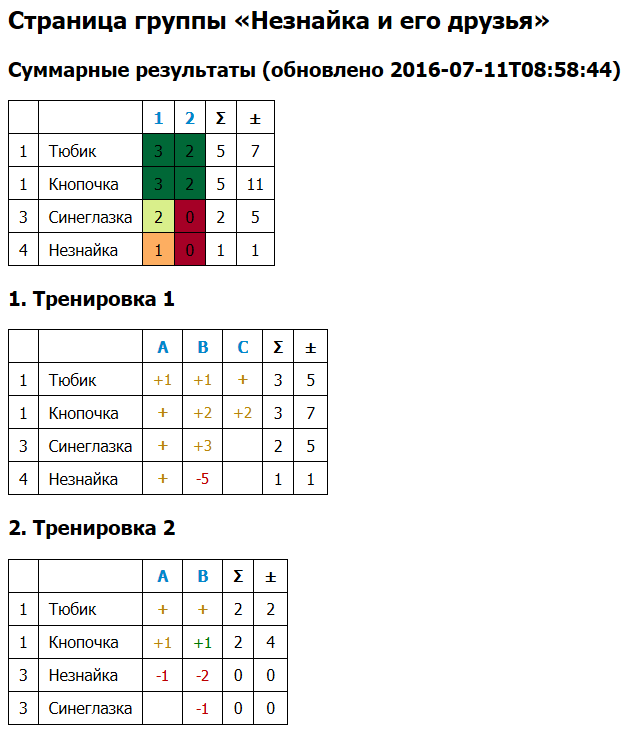
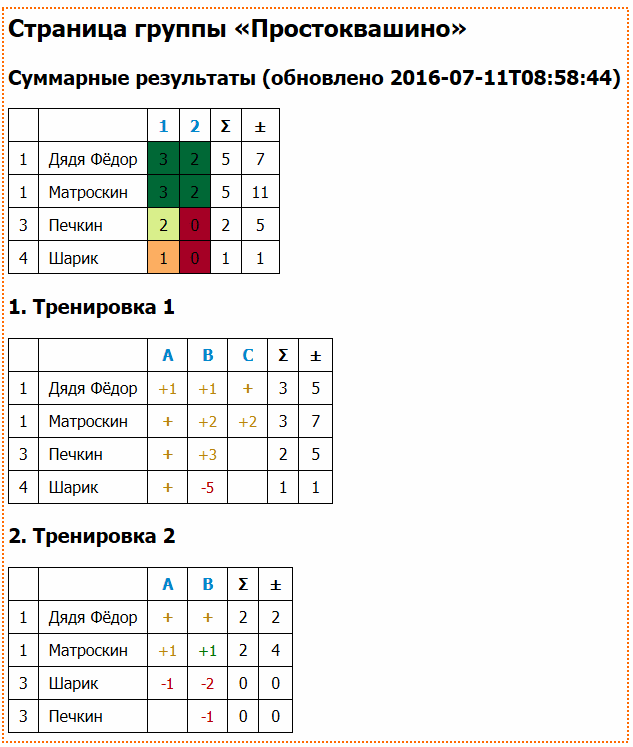
Change example

diff --git a/example/progress.html b/example/progress.html
@@ -1,1 +1,1 @@
-<!doctype html><html lang="ru"><head><meta charset="utf-8"><style>html{font-size:62.5%}body{font:400 1.6rem/1.5 Tahoma,serif}h1{font-size:2.4rem}h2{font-size:2rem}.ac,.ok,.rj{font-size:1.5rem}table{border-collapse:collapse}td,th{padding:4px 10px;border:1px solid #000;text-align:center}a{text-decoration:none;color:#08c}.left{text-align:left}.ac{color:#070}.ok{color:#b8860b}.rj{color:#b00}.ok0{font-weight:900}.c0{background-color:#a50026}.c1{background-color:#d73027}.c2{background-color:#f46d43}.c3{background-color:#fdae61}.c4{background-color:#fee08b}.c5{background-color:#ffffbf}.c6{background-color:#d9ef8b}.c7{background-color:#a6d96a}.c8{background-color:#66bd63}.c9{background-color:#1a9850}.c10{background-color:#006837}</style><title>Незнайка и его друзья</title></head><body><h1>Страница группы  «Незнайка и его друзья»</h1><h2>Суммарные результаты (обновлено 2016-07-11T08:58:44)</h2><table><tr><th><th><th><a href="#1">1</a><th><a href="#2">2</a><th title="Задачи">Σ<th title="Попытки по решенным задачам">±<tr><td>1<td class="left">Тюбик<td class="c10">3<td class="c10">2<td>5<td>7<tr><td>1<td class="left">Кнопочка<td class="c10">3<td class="c10">2<td>5<td>11<tr><td>3<td class="left">Синеглазка<td class="c6">2<td class="c0">0<td>2<td>5<tr><td>4<td class="left">Незнайка<td class="c3">1<td class="c0">0<td>1<td>1</table><h2 id="1">1. Тренировка 1</h2><table><tr><th><th><th><a title="Простые числа" href="http://informatics.mccme.ru/mod/statements/view3.php?chapterid=611">A</a><th><a title="Выражение" href="http://informatics.mccme.ru/mod/statements/view3.php?chapterid=612">B</a><th><a title="Возрастающая подпоследовательность" href="http://informatics.mccme.ru/mod/statements/view3.php?chapterid=613">C</a><th title="Задачи">Σ<th title="Попытки по решенным задачам">±<tr><td>1<td class="left">Тюбик<td class="ok">+1<td class="ok">+1<td class="ok ok0">+<td>3<td>5<tr><td>1<td class="left">Кнопочка<td class="ok ok0">+<td class="ok">+2<td class="ok">+2<td>3<td>7<tr><td>3<td class="left">Синеглазка<td class="ok ok0">+<td class="ok">+3<td><td>2<td>5<tr><td>4<td class="left">Незнайка<td class="ok ok0">+<td class="rj">-5<td><td>1<td>1</table><h2 id="2">2. Тренировка 2</h2><table><tr><th><th><th><a title="Простые числа(2)" href="http://informatics.mccme.ru/mod/statements/view3.php?chapterid=617">A</a><th><a title="Перестановки" href="http://informatics.mccme.ru/mod/statements/view3.php?chapterid=618">B</a><th title="Задачи">Σ<th title="Попытки по решенным задачам">±<tr><td>1<td class="left">Тюбик<td class="ok ok0">+<td class="ok ok0">+<td>2<td>2<tr><td>1<td class="left">Кнопочка<td class="ok">+1<td class="ac">+1<td>2<td>4<tr><td>3<td class="left">Незнайка<td class="rj">-1<td class="rj">-2<td>0<td>0<tr><td>3<td class="left">Синеглазка<td><td class="rj">-1<td>0<td>0</table></body></html>
+<!doctype html><html lang="ru"><head><meta charset="utf-8"><style>html{font-size:62.5%}body{font:400 1.6rem/1.5 Tahoma,serif}h1{font-size:2.4rem}h2{font-size:2rem}.ac,.ok,.rj{font-size:1.5rem}table{border-collapse:collapse}td,th{padding:4px 10px;border:1px solid #000;text-align:center}a{text-decoration:none;color:#08c}.left{text-align:left}.ac{color:#070}.ok{color:#b8860b}.rj{color:#b00}.ok0{font-weight:900}.c0{background-color:#a50026}.c1{background-color:#d73027}.c2{background-color:#f46d43}.c3{background-color:#fdae61}.c4{background-color:#fee08b}.c5{background-color:#ffffbf}.c6{background-color:#d9ef8b}.c7{background-color:#a6d96a}.c8{background-color:#66bd63}.c9{background-color:#1a9850}.c10{background-color:#006837}</style><title>Простоквашино</title></head><body><h1>Страница группы  «Простоквашино»</h1><h2>Суммарные результаты (обновлено 2016-07-11T08:58:44)</h2><table><tr><th><th><th><a href="#1">1</a><th><a href="#2">2</a><th title="Задачи">Σ<th title="Попытки по решенным задачам">±<tr><td>1<td class="left">Дядя Фёдор<td class="c10">3<td class="c10">2<td>5<td>7<tr><td>1<td class="left">Матроскин<td class="c10">3<td class="c10">2<td>5<td>11<tr><td>3<td class="left">Печкин<td class="c6">2<td class="c0">0<td>2<td>5<tr><td>4<td class="left">Шарик<td class="c3">1<td class="c0">0<td>1<td>1</table><h2 id="1">1. Тренировка 1</h2><table><tr><th><th><th><a title="Простые числа" href="http://informatics.mccme.ru/mod/statements/view3.php?chapterid=611">A</a><th><a title="Выражение" href="http://informatics.mccme.ru/mod/statements/view3.php?chapterid=612">B</a><th><a title="Возрастающая подпоследовательность" href="http://informatics.mccme.ru/mod/statements/view3.php?chapterid=613">C</a><th title="Задачи">Σ<th title="Попытки по решенным задачам">±<tr><td>1<td class="left">Дядя Фёдор<td class="ok">+1<td class="ok">+1<td class="ok ok0">+<td>3<td>5<tr><td>1<td class="left">Матроскин<td class="ok ok0">+<td class="ok">+2<td class="ok">+2<td>3<td>7<tr><td>3<td class="left">Печкин<td class="ok ok0">+<td class="ok">+3<td><td>2<td>5<tr><td>4<td class="left">Шарик<td class="ok ok0">+<td class="rj">-5<td><td>1<td>1</table><h2 id="2">2. Тренировка 2</h2><table><tr><th><th><th><a title="Простые числа(2)" href="http://informatics.mccme.ru/mod/statements/view3.php?chapterid=617">A</a><th><a title="Перестановки" href="http://informatics.mccme.ru/mod/statements/view3.php?chapterid=618">B</a><th title="Задачи">Σ<th title="Попытки по решенным задачам">±<tr><td>1<td class="left">Дядя Фёдор<td class="ok ok0">+<td class="ok ok0">+<td>2<td>2<tr><td>1<td class="left">Матроскин<td class="ok">+1<td class="ac">+1<td>2<td>4<tr><td>3<td class="left">Шарик<td class="rj">-1<td class="rj">-2<td>0<td>0<tr><td>3<td class="left">Печкин<td><td class="rj">-1<td>0<td>0</table></body></html>
